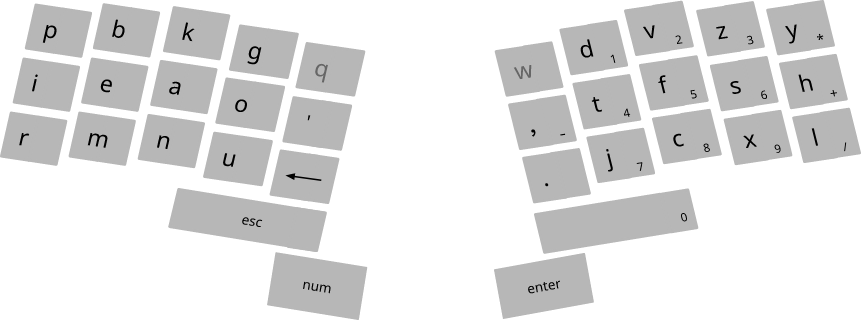
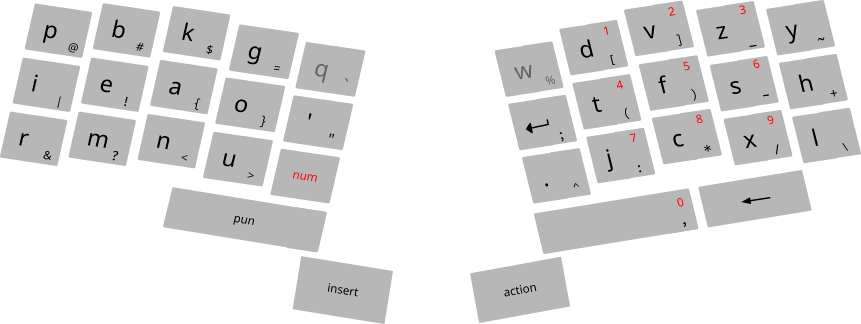
Add files via upload

diff --git a/index.html b/index.html
@@ -18,6 +18,6 @@
     }
   </style>
   </head><body><a href='https://github.com/damoonsaghian/Comshell'><h1>Comshell</h1></a>
-<h2>1, Comshell</h2><div><b>command based user interface</b></div><div>command based user interfaces (using keyboard, voice, gesture) are faster, more convenient and more powerful,</div><div>	than pointer based user interfaces (using mouse, touch, pen)</div><div>pointer based interface seems appealing at first sight, because of its discoverability</div><div>but with simple uniform GUI (ie the oposite of what we see in websites),</div><div>	there is no need for a pointer based user interface</div><div><p></p></div><div>touch interface has an additional problem: interaction at a distance is not possible</div><div>but it can still be useful in simple or special applications</div><div><p></p></div><div>detection of voice commands is a relatively simple process (compared to general speech recognition),</div><div>	because we only need to match against a relatively small set of commands</div><div>a headset with near range microphone can be used, to exclude far away sound sources</div><div>also it is better to put battery and transmitter of the headset in a separate unit which can be put in a pocket</div><div>	this makes the headset lighter and safer</div><div><p></p></div><div>for those who neither can use all their fingers, nor can talk, gesture based (2d) input can be implemented</div><div><p></p></div><div><img src='keyboard.png' alt='keyboard.png'/></div><div><a href='https://github.com/abstracthat/dactyl-manuform'>https://github.com/abstracthat/dactyl-manuform</a></div><div><a href='https://zealot.hu/absolem/'>https://zealot.hu/absolem/</a></div><div><a href='https://github.com/foostan/crkbd'>https://github.com/foostan/crkbd</a></div><div><a href='https://github.com/nglgzz/42'>https://github.com/nglgzz/42</a></div><div><a href='https://github.com/adereth/dactyl-keyboard'>https://github.com/adereth/dactyl-keyboard</a></div><div>Kinesis Advantage 2 keyboard</div><div><a href='http://www.allthingsergo.com/the-best-ergonomic-mechanical-keyboards/'>http://www.allthingsergo.com/the-best-ergonomic-mechanical-keyboards/</a></div><div><p></p></div><div>keyboard has two modes: insert mode and action mode</div><div>in action mode keys are mapped to navigation keys (like arrows, page up, page down, home, end, tab),</div><div>	and ctrl/alt based keybindings</div><div>press "esc" key to go to action mode</div><div>in action mode press "space" to go to insert mode</div><div><p></p></div><div>to enter capital letters:</div><div>, two apostrophes then an alphabetical letter -&gt; capital letter</div><div>, "aBcd" then two apostrophes followed by space -&gt; "AbCD" followed by space</div><div><p></p></div><div>some examples to show how to enter other charactors:</div><div>comma followed by dot will be replaced by colon</div><div>comma followed by apostrophe will be replaced by quotation mark</div><div>:(){}[]_|=?!&lt;&gt;+-*/\&^%$#@~`</div><div>two commas will be replaced by a semicolon</div><div>semicolon followed by dot will be replaced by ::</div><div>mathematical symbols</div><div><p></p></div><div>for compatibility with other applications, we may still need a mouse</div><div>modifier keys (alt, ctrl, shift) can be put in the middle of the keyboard</div><div>also we need extra keys to be able to directly enter all punctuation charactors</div><div>lastly we can have a row of function keys, plus the "delete" key</div><div><p></p></div><div><b>Comshell</b></div><div>Comshell is a unified computing environment, utilizing command based user interface</div><div><p></p></div><div><img src='comshell.png' alt='comshell.png'/></div><div><p></p></div><div>list of all projects will appear in a floating layer, at the center of screen, called overview layer</div><div>overview layer:</div><div>, left panel:</div><div>	, roots: user home plus attached devices</div><div>	, project groups: content of roots</div><div>, main view:</div><div>	projects: content of project groups</div><div><p></p></div><div>in a project view, the list of files of a project will be displayed in the left side'bar</div><div>opened files will be slightly highlighted</div><div>files and directories with names starting with a dot, will be hidden</div><div>".cache" directory inside a project is for files we don't want to share or backup</div><div><p></p></div><div>each opened file will have a side'bar at right showing its sections</div><div>there we can create new view corresponding to a section</div><div>sections with views will be slightly highlighted</div><div><p></p></div><div>text files will be opened in a text editor</div><div>directories containing media files, will be opened in a gallery view</div><div>files and directories inside a gallery, will be opened in a floating layer</div><div><p></p></div><div>non'local projects, web pages, PDF documents, etc, accessed from links inside the main project,</div><div>	will be opened in a floating layer</div><div>web pages: move caret between visual elements (ignoring structural elements)</div><div><p></p></div><div>actions:</div><div>, next/previous word, line, paragraph, section (righ/left middle row keys)</div><div>, next/previous file (ask for confirmation)</div><div>, next/previous section view, opened file</div><div>, go to the list of files to open a new view</div><div>, start and end selection, then copy or cut</div><div>, paste</div><div>, undo</div><div><p></p></div><div>, navigation: move, search</div><div>, selection</div><div>, completion</div><div><p></p></div><div>"enter" (in insert mode): selection, completion</div><div>"space" or empty line, then "enter": delete space (if any), then insert new line</div><div><p></p></div><div>codev: collaborative development without the need to keep the whole history</div><div>flaws of version control systems:</div><div>, they double the storage (working directory, local repository)</div><div>, their design makes it difficult to modify the history</div><div>	so in practice, the whole history must be kept indefinitely, even if not needed</div><div>codev init:</div><div>	initialize a remote host (for "hashbang.sh" hosts, if login fails, it will try to sign you up)</div><div>codev create:</div><div>	create a remote repository from the current project directory</div><div>codev clone</div><div>codev pull</div><div>and after merging: codev push</div><div><p></p></div><div>in projects list view:</div><div>, press "" key to open session management menu (poweroff, reboot, suspend, exit, lock)</div><div>, press "" key to open terminal view</div><div><p></p></div><div>for implementing a prototype of Comshell, it seems that the best tool at hand is PyGObject</div><div>Lua LGI is good too, and maybe better, if all we need is libraries based on GObject</div><div>but Python is more suitable, if we want a simple object'oriented glue for almost anything</div><div><a href='https://github.com/TomNicholas/Python-for-Scientists'>https://github.com/TomNicholas/Python-for-Scientists</a></div>
+<h2>1, Comshell</h2><div><b>command based user interface</b></div><div>command based user interfaces (using keyboard, voice, gesture) are faster, more convenient and more powerful,</div><div>	than pointer based user interfaces (using mouse, touch, pen)</div><div>pointer based interface seems appealing at first sight, because of its discoverability</div><div>but with simple uniform GUI (ie the oposite of what we see in websites),</div><div>	there is no need for a pointer based user interface</div><div><p></p></div><div>touch interface has an additional problem: interaction at a distance is not possible</div><div>it can be useful in some special cases, but is not a good choice as a general interface</div><div><p></p></div><div>detection of voice commands is a relatively simple process (compared to general speech recognition),</div><div>	because we only need to match against a relatively small set of commands</div><div>a headset with near range microphone can be used, to exclude far away sound sources</div><div>also it is better to put battery and transmitter of the headset in a separate unit which can be put in a pocket</div><div>	this makes the headset lighter and safer</div><div><p></p></div><div>for those who neither can use all their fingers, nor can talk, gesture based (2d) input can be implemented</div><div><p></p></div><div><img src='keyboard.png' alt='keyboard.png'/></div><div><a href='https://github.com/abstracthat/dactyl-manuform'>https://github.com/abstracthat/dactyl-manuform</a></div><div><a href='https://zealot.hu/absolem/'>https://zealot.hu/absolem/</a></div><div><a href='https://github.com/foostan/crkbd'>https://github.com/foostan/crkbd</a></div><div><a href='https://github.com/nglgzz/42'>https://github.com/nglgzz/42</a></div><div><a href='https://github.com/adereth/dactyl-keyboard'>https://github.com/adereth/dactyl-keyboard</a></div><div>Kinesis Advantage 2 keyboard</div><div><a href='http://www.allthingsergo.com/the-best-ergonomic-mechanical-keyboards/'>http://www.allthingsergo.com/the-best-ergonomic-mechanical-keyboards/</a></div><div><p></p></div><div>the keyboard has two modes: insert mode and action mode</div><div>in action mode keys are mapped to navigation keys (arrows, page up, page down, home, end, esc),</div><div>	and ctrl/alt based keybindings</div><div>when "action" or "insert" is pressed keyboard sends a special key combination,</div><div>	which can be used by applications, eg to flash the location of the cursor</div><div><p></p></div><div>to insert capital letters:</div><div>, two apostrophes then an alphabetical letter -&gt; capital letter</div><div>, "aBcd" then two apostrophes followed by space -&gt; "AbCD" followed by space</div><div>to enter punctuations, press "pun"</div><div>	after entering a punctuation charactor, it automatically returns to normal insert mode</div><div>to insert numbers, press and hold "num"</div><div><p></p></div><div>for compatibility with other applications, we may still need a mouse</div><div>and we need these extra keys which can be put in the middle of the keyboard: alt, ctrl, shift, tab</div><div>also we can have a row of function keys, plus the "delete" key, to have full compatibility</div><div><p></p></div><div><b>Comshell</b></div><div>Comshell is a unified computing environment, utilizing command based user interface</div><div><p></p></div><div><img src='comshell.png' alt='comshell.png'/></div><div><p></p></div><div>list of all projects will appear in a floating layer, at the center of screen, called overview layer</div><div>overview layer:</div><div>, left panel:</div><div>	, roots: user home plus attached devices</div><div>	, project groups: content of roots</div><div>, main view:</div><div>	projects: content of project groups</div><div><p></p></div><div>in a project view, the list of files of a project will be displayed in the left side'bar</div><div>opened files will be slightly highlighted</div><div>files and directories with names starting with a dot, will be hidden</div><div>".cache" directory inside a project is for files we don't want to share or backup</div><div><p></p></div><div>each opened file will have a side'bar at right showing its sections</div><div>there we can create new view corresponding to a section</div><div>sections with views will be slightly highlighted</div><div><p></p></div><div>text files will be opened in a text editor</div><div>directories containing media files, will be opened in a gallery view</div><div>files and directories inside a gallery, will be opened in a floating layer</div><div><p></p></div><div>non'local projects, web pages, PDF documents, etc, accessed from links inside the main project,</div><div>	will be opened in a floating layer</div><div>web pages: move caret between visual elements (ignoring structural elements)</div><div><p></p></div><div>actions:</div><div>, next/previous word, line, paragraph, section (righ/left middle row keys)</div><div>, next/previous file (ask for confirmation)</div><div>, next/previous section view, opened file</div><div>, go to the list of files to open a new view</div><div>, start and end selection, then copy or cut</div><div>, paste</div><div>, undo</div><div><p></p></div><div>, navigation: move, search</div><div>, selection</div><div>, completion</div><div><p></p></div><div>"enter" (in insert mode): selection, completion</div><div>"space" or empty line, then "enter": delete space (if any), then insert new line</div><div><p></p></div><div>codev: collaborative development without the need to keep the whole history</div><div>flaws of version control systems:</div><div>, they double the storage (working directory, local repository)</div><div>, their design makes it difficult to modify the history</div><div>	so in practice, the whole history must be kept indefinitely, even if not needed</div><div>codev init:</div><div>	initialize a remote host (for "hashbang.sh" hosts, if login fails, it will try to sign you up)</div><div>codev create:</div><div>	create a remote repository from the current project directory</div><div>codev clone</div><div>codev pull</div><div>and after merging: codev push</div><div><p></p></div><div>in projects list view:</div><div>, press "" key to open session management menu (poweroff, reboot, suspend, exit, lock)</div><div>, press "" key to open terminal view</div><div><p></p></div><div>for implementing a prototype of Comshell, it seems that the best tool at hand is PyGObject</div><div>Lua LGI is good too, and maybe better, if all we need is libraries based on GObject</div><div>but Python is more suitable, if we want a simple object'oriented glue for almost anything</div><div><a href='https://github.com/TomNicholas/Python-for-Scientists'>https://github.com/TomNicholas/Python-for-Scientists</a></div>
 <h2>2, computers</h2><div><b>asynchronous digital circuits</b></div><div>in conventional digital circuits when the inputs change, the outputs can have temporary invalid values,</div><div>	until they stabilize to the valid values</div><div>but for the circuit to do its job, gates with memory (registers),</div><div>	must operate only when the inputs have correct values</div><div>one solution is to synchronize registers with a global clock signal</div><div>	the period of clock signal is made long enough for the circuit to become stable</div><div><p></p></div><div>disadvantages of synchronous circuits:</div><div>, we have to split long operations into several smaller ones,</div><div>	which can be performed in successive clock cycles (a technique known as pipelining)</div><div>	otherwise the circuit would be slow and inefficient</div><div>, distributing a high'fan'out, timing'sensitive clock signal can be complicated</div><div>, electromagnetic interference at the clock frequency and its harmonics</div><div>, widely distributed clock signal takes a lot of power, and must run whether the circuit is receiving inputs or not</div><div>although "clock gating" can help to reduce some of the problems of synchronous circuits,</div><div>	i think the real solution is to use asynchronous circuits</div><div><p></p></div><div>the only sane kind of asynchronous circuit which i could imagine is this:</div><div>, next to any data wire, there is a control wire which determines if the data is valid or not</div><div>, when a register wants to change its outputs, it first invalidates them,</div><div>	for a duration equal to the delay of one gate</div><div>, any gate receiving an invalid input, invalidates its outputs</div><div>, this way all data which is going to change in the future, is first invalidated</div><div>, registers operate only when all inputs are valid</div><div><p></p></div><div><b>computers</b></div><div>cpu, memory, peripherals, this seems to be the only practical architecture for the hardware of computers</div><div>cpu runs a sequence of simple computations, called instruction codes, one by one</div><div><p></p></div><div>compilers are special programs that generate instruction codes,</div><div>	from a program written in a structured and human readable language</div><div><p></p></div><div>there is always possibility of backdoors for closed source CPU,</div><div>	especially if the boot firmware is also closed source</div><div>recently introduction of "secure execution environment" makes this situation even worse</div><div>it's a closed source, full'blown, always'running mini operating system,</div><div>	with full access to the whole system (including memory and network)</div><div>furthermore they have made it practically impossible for users to disable it</div><div>this mess of a design cries out for hidden and quite sophisticated backdoors</div><div><a href='https://www.fsf.org/blogs/licensing/intel-me-and-why-we-should-get-rid-of-me'>https://www.fsf.org/blogs/licensing/intel-me-and-why-we-should-get-rid-of-me</a></div><div><a href='https://libreboot.org/faq.html#intel'>https://libreboot.org/faq.html#intel</a></div><div><a href='https://en.wikipedia.org/wiki/Intel_Management_Engine'>https://en.wikipedia.org/wiki/Intel_Management_Engine</a></div><div><a href='https://blog.invisiblethings.org/papers/2015/x86_harmful.pdf'>https://blog.invisiblethings.org/papers/2015/x86_harmful.pdf</a></div><div><p></p></div><div>on X86 architectures the default boot firmware on nearly all systems are closed source</div><div>flashing a CoreBoot based boot firmware is possible, but there still will be closed source parts (Intel FSP)</div><div>in addition, there is no easy way to get rid of Intel ME (or AMD PSP),</div><div>	though there are some hacks to disable (but not completely remove) it:</div><div>	<a href='https://puri.sm/posts/deep-dive-into-intel-me-disablement/'>https://puri.sm/posts/deep-dive-into-intel-me-disablement/</a></div><div><p></p></div><div>ARM architecture is closed source too, but in most cases, boot firmwares are open source (U-Boot or EDK2)</div><div>ARM TrustZone can host an open source operating system too, apparently:</div><div>	<a href='https://news.ycombinator.com/item?id=17783357'>https://news.ycombinator.com/item?id=17783357</a></div><div>GPU with open source driver: Qualcomm/Adreno</div><div><p></p></div><div>open source CPU: RISC-V, Power ISA</div><div><p></p></div><div>one read'only boot firmware, plus a writable one</div><div>, interrupted flashing does not brick the device</div><div>, no need for complex signing mechanism to make sure a device's firmware is not malicious</div><div>	you just have to make sure that the device boots from the read'only flash,</div><div>	and that the writable flash is empty, the first time you boot the device</div><div><p></p></div><div>programs usually do not run directly on computer hardware</div><div>instead they run on a more sophisticated software machine (a virtual machine) called the kernel</div><div>in theory we can live without a kernel (an idea sometimes called a library operating system),</div><div>	and it can be useful for some use cases (like IoT devices),</div><div>	but a kernel based operating system makes developing and testing programs, much easier</div><div>Linux is a highly developed, constantly evolving, open'source kernel</div>
 <h2>3, Alpine Linux</h2><div>using Alpine Linux we can easily setup a Linux based operating system</div><div>anything which needs a kernel'based operating system can use Alpine Linux:</div><div>, it supports a wide range of processor architectures</div><div>, it's suitable for systems with limited resources</div><div>, the stable release provides a highly tested system for sensitive use cases</div><div><p></p></div><div>the following shows how to create an Alpine live system, on a USB storage device,</div><div>	customized for installing a minimal graphical system</div><div>first you need to already be in an Alpine system (either installed or live)</div><div>then if you need to download the files of this project, run these commands:</div><div>; apk add wget</div><div>; wget -r -np -nH --cut-dirs=1 https://hashbang.sh/~damoonsaghian/Comshell/</div><div>; cd Comshell</div><div>ensure that the downloaded files aren't malicious, then:</div><div>; sh alpine/mklive.sh</div><div>this will ask you to choose a storage device, and then creates the customized live system</div><div><p></p></div><div>now just boot into the customized live system</div><div>it will ask for:</div><div>, a root password, and a user account (provide different passwords for root and for the user)</div><div>, confirmation for auto'detected time'zone</div><div>, the network configuration (if it's not a simple DHCP wired connection)</div><div>, the target device (if there is more than one device), and then installs Alpine on it</div><div>after reboot, you can login to the installed system</div><div><p></p></div><div>press "alt+space" to open app launcher menu</div><div>in app launcher menu, press "alt+space" again to open session management menu:</div><div>	poweroff, reboot, suspend, exit, lock</div><div>press "alt+tab" to switch between the primary app (usually Comshell) and the prior app</div><div>press "alt+a" to switch between windows of a workspace</div><div>press "alt+escape" to close focused window</div><div>press "alt+enter" to open a terminal window</div><div><p></p></div><div>"system" is a command line program which can be used to configure:</div><div>	timezone, language, connections, and installed packages</div><div><p></p></div><div>to run a command as root:</div><div>; su command</div><div>this will switch to the first available virtual terminal, shows the command at the top,</div><div>	and asks for root password</div><div>if the entered password is correct it returns back to previous virtual terminal,</div><div>	and runs the command as root</div><div><p></p></div><div>note that you can't login as root; actually root account is locked,</div><div>	and root password provided during installation, is used only for "su"</div><div>also you must never type the user's password anywhere except at the login prompt</div><div>	(and make sure that the login prompt isn't fake, by disconnecting and reconnecting your keyboard)</div><div>this means that if a malicious program steals root password (eg by faking the password entry),</div><div>	it still can't run programs as root (because it can't enter the password in a virtual terminal)</div><div>take a look at these:</div><div><a href='https://www.reddit.com/r/linuxquestions/comments/8mlil7/whats_the_point_of_the_sudo_password_prompt_if/'>https://www.reddit.com/r/linuxquestions/comments/8mlil7/whats_the_point_of_the_sudo_password_prompt_if/</a></div><div><a href='https://security.stackexchange.com/questions/119410/why-should-one-use-sudo'>https://security.stackexchange.com/questions/119410/why-should-one-use-sudo</a></div><div><p></p></div><div>to protect the computer from physical attacks, don't leave the computer with an unlocked session</div><div>in addition you must:</div><div>, somehow prevent tampering with hardware</div><div>, protect boot firmware by a password</div><div>, disable changing the storage device used for booting</div><div>these can make physical attacks more difficult, but keep this in mind:</div><div>	physical access to a computer is root access, given enough time and resources</div></body></html>
